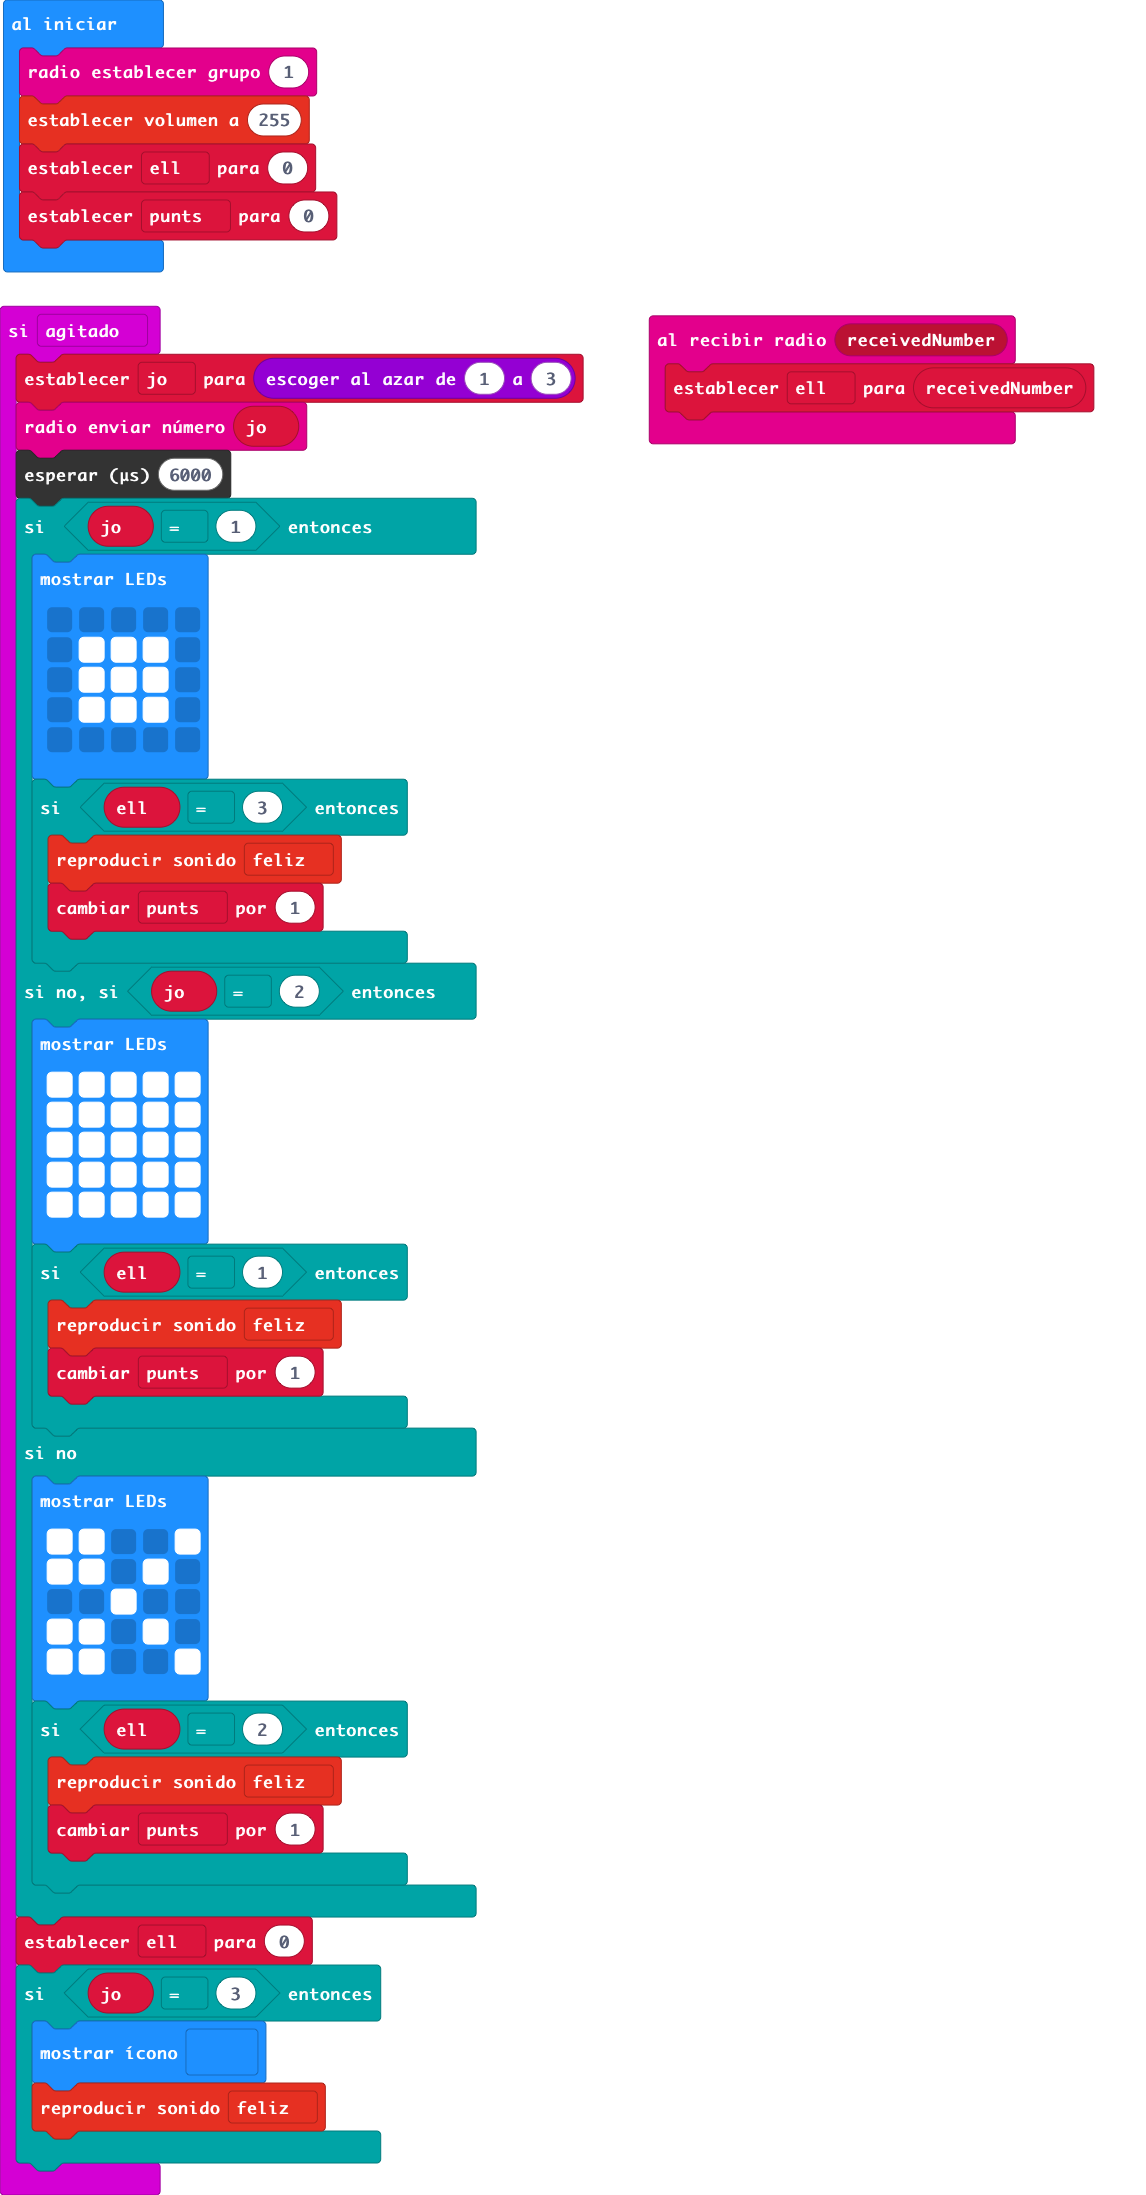
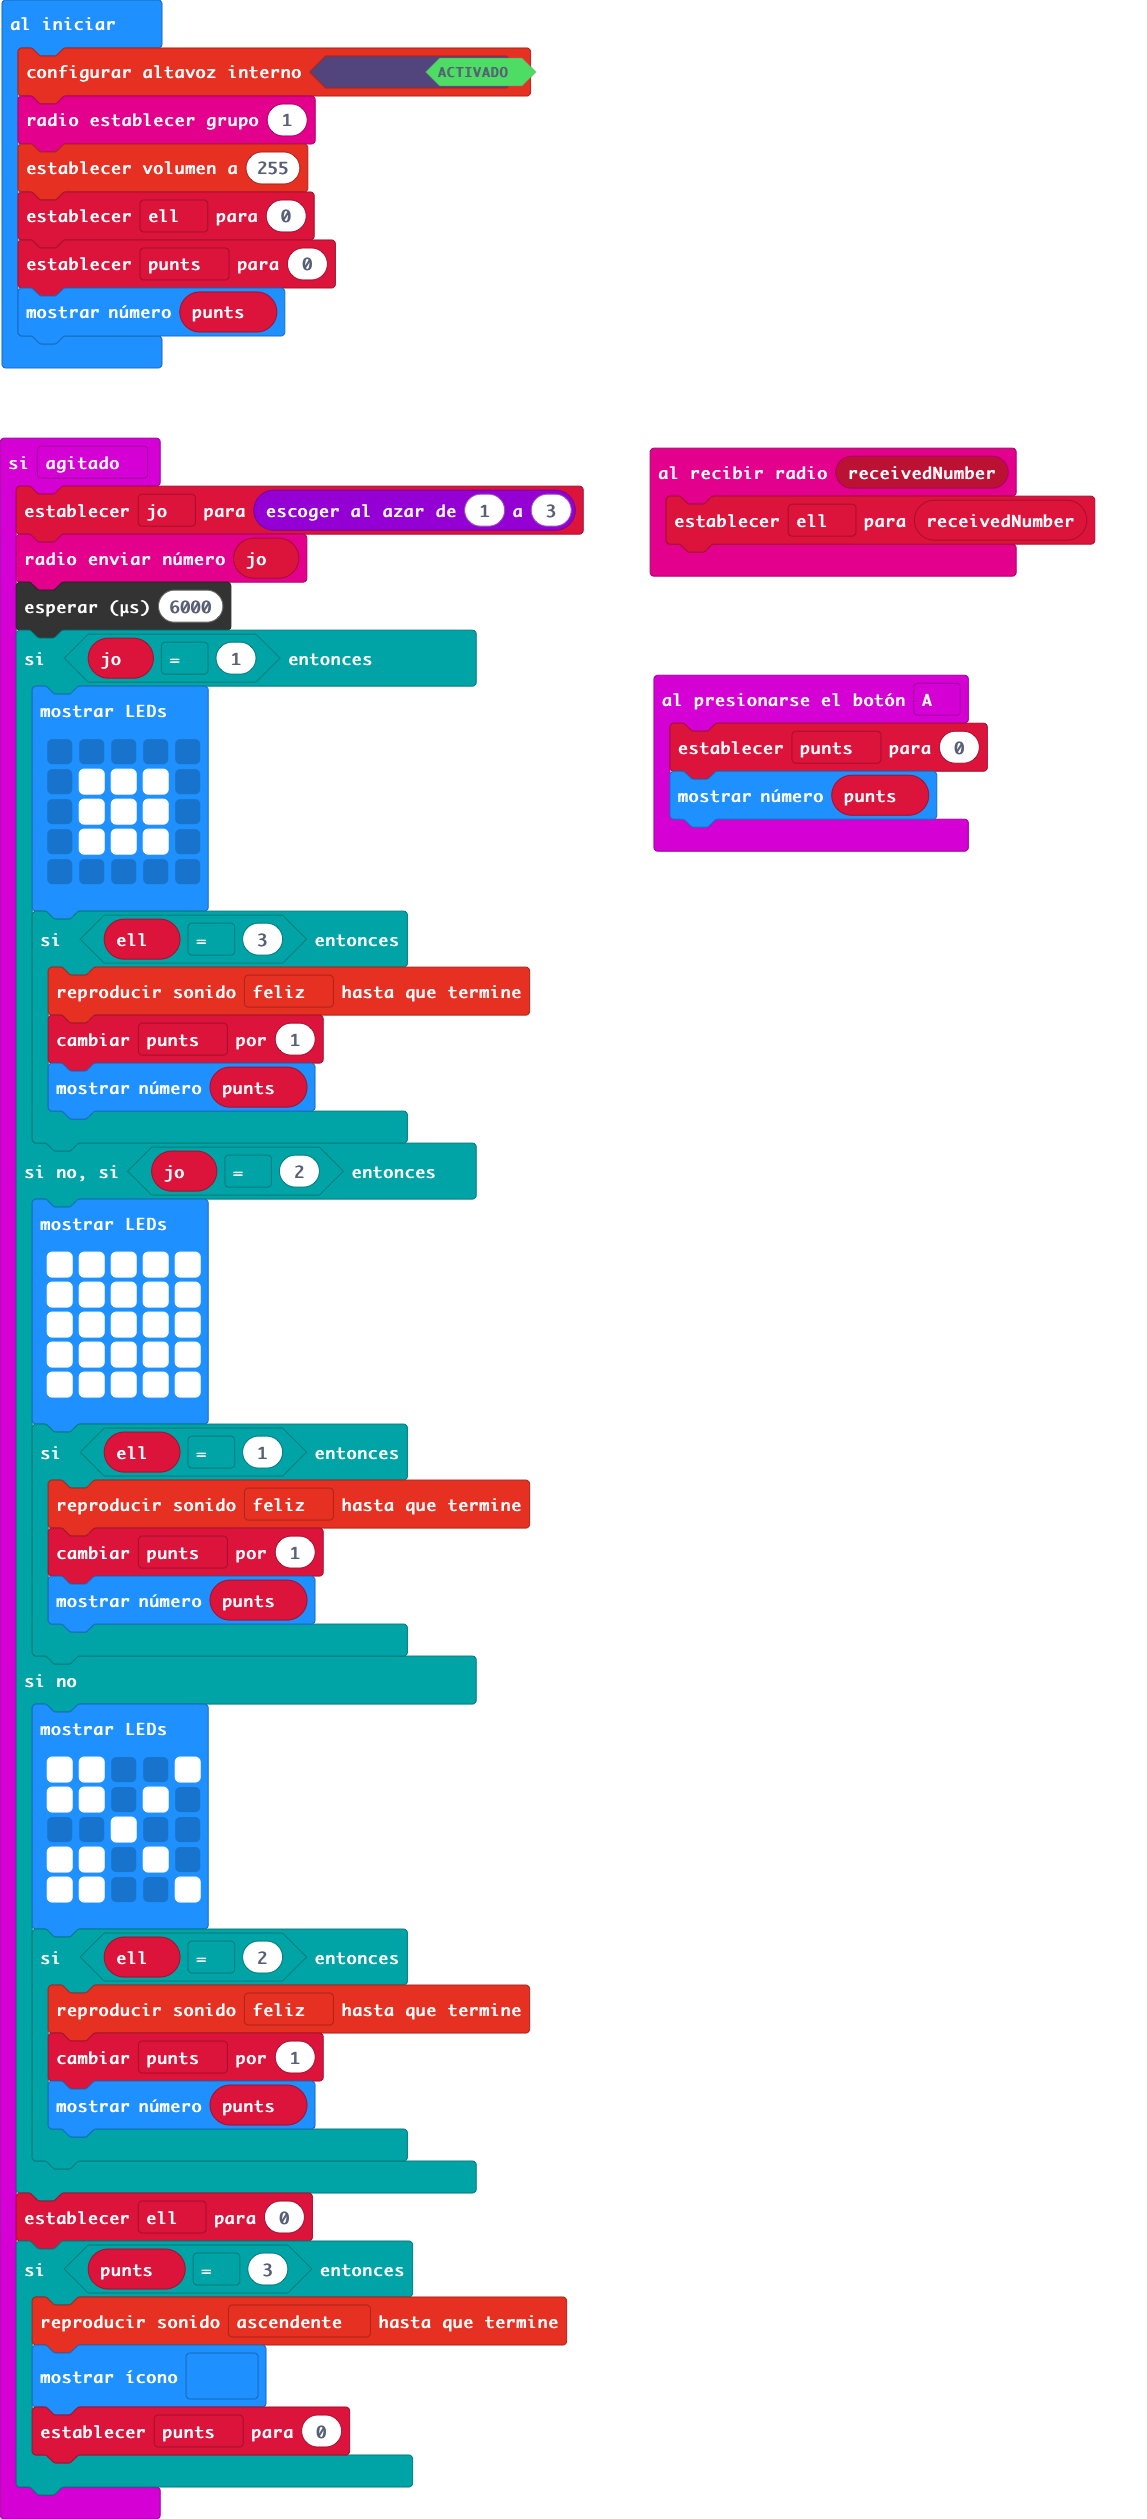
Actualizar main.blocks, main.ts

Changed region(s): [[0.0, 0.0, 0.5192, 0.9913], [0.5497, 0.1239, 0.9773, 0.3408]]

diff --git a/main.ts b/main.ts
@@ -1,6 +1,10 @@
 radio.onReceivedNumber(function (receivedNumber) {
     ell = receivedNumber
 })
+input.onButtonPressed(Button.A, function () {
+    punts = 0
+    basic.showNumber(punts)
+})
 input.onGesture(Gesture.Shake, function () {
     jo = randint(1, 3)
     radio.sendNumber(jo)
@@ -14,8 +18,9 @@ input.onGesture(Gesture.Shake, function () {
             . . . . .
             `)
         if (ell == 3) {
-            soundExpression.happy.play()
+            soundExpression.happy.playUntilDone()
             punts += 1
+            basic.showNumber(punts)
         }
     } else if (jo == 2) {
         basic.showLeds(`
@@ -26,8 +31,9 @@ input.onGesture(Gesture.Shake, function () {
             # # # # #
             `)
         if (ell == 1) {
-            soundExpression.happy.play()
+            soundExpression.happy.playUntilDone()
             punts += 1
+            basic.showNumber(punts)
         }
     } else {
         basic.showLeds(`
@@ -38,19 +44,24 @@ input.onGesture(Gesture.Shake, function () {
             # # . . #
             `)
         if (ell == 2) {
-            soundExpression.happy.play()
+            soundExpression.happy.playUntilDone()
             punts += 1
+            basic.showNumber(punts)
         }
     }
     ell = 0
-    if (jo == 3) {
+    if (punts == 3) {
+        soundExpression.soaring.playUntilDone()
         basic.showIcon(IconNames.Yes)
-        soundExpression.happy.play()
+        punts = 0
     }
 })
 let jo = 0
+let punts = 0
 let ell = 0
+music.setBuiltInSpeakerEnabled(true)
 radio.setGroup(1)
 music.setVolume(255)
 ell = 0
-let punts = 0
+punts = 0
+basic.showNumber(punts)
